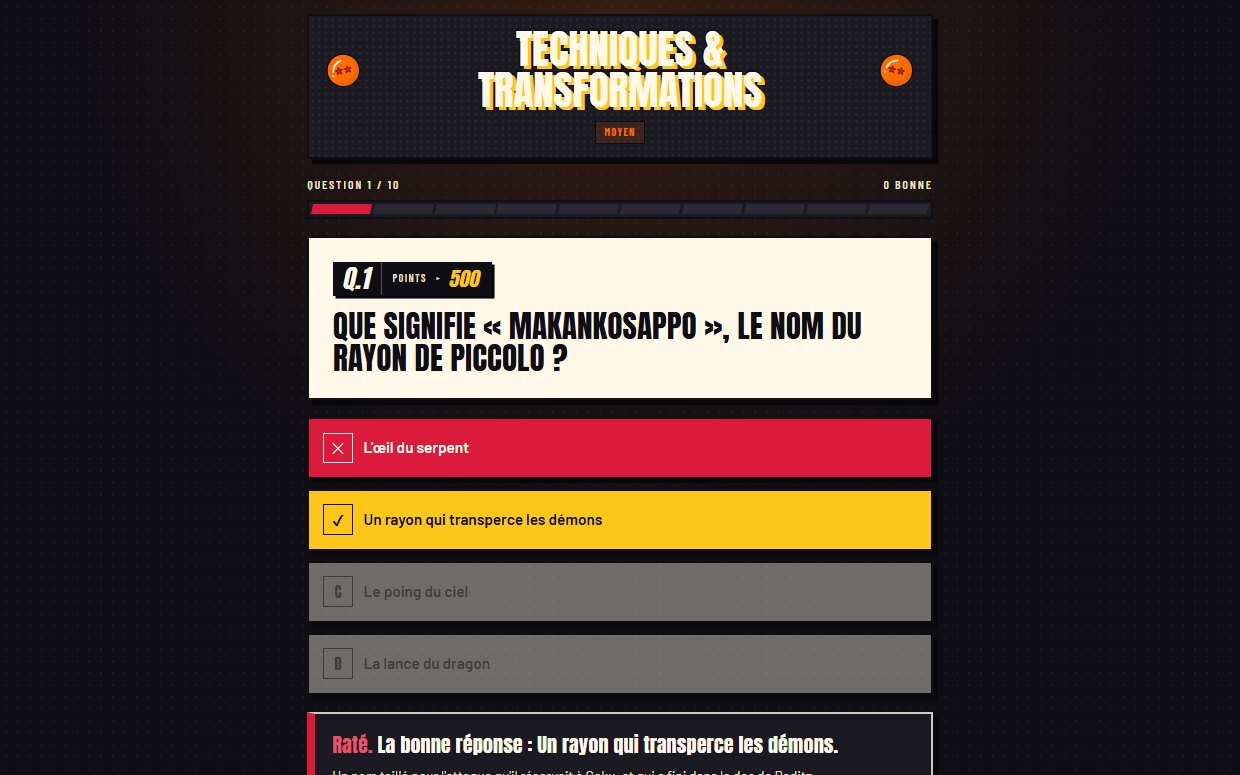
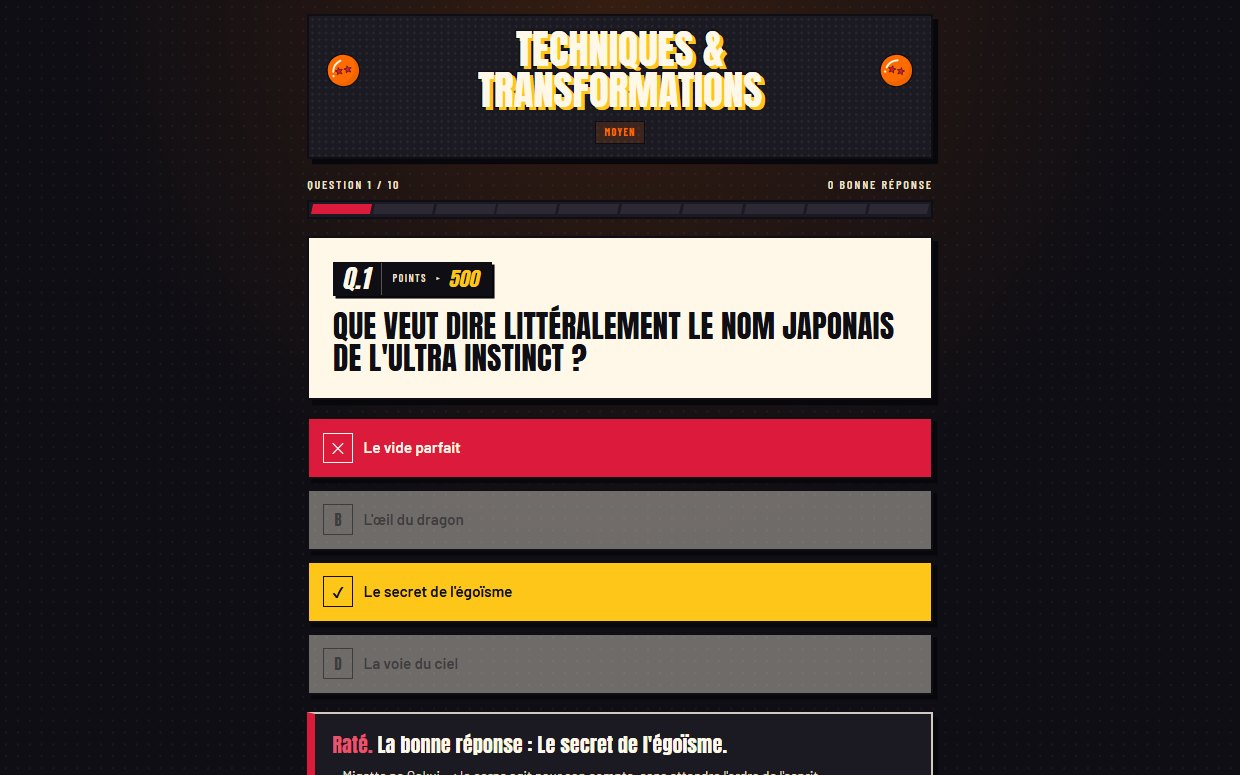
Met à jour les captures de l'étude de cas Dragon Ball Quiz après la relecture des textes
Nouvelle accroche sur l'accueil, compteur « 0 bonne réponse » sur la
question, tuile « Puissance de combat » sur le résultat ; aperçu de
partage en version 4, LinkedIn gardant l'ancien par URL.

diff --git a/dragonballquiz.html b/dragonballquiz.html
@@ -15,8 +15,9 @@
   <!-- Numéro de version dans le nom, comme apercu-cineyast-3.jpg : LinkedIn
        garde l'image traitée par URL exacte. Incrémenter si l'aperçu est refait.
        -2 (14/09/2026) : la boule de cristal remplace l'orbe sur l'accueil.
-       -3 (14/09/2026) : « Choisis ta catégorie » remplace « Choisis ton terrain ». -->
-  <meta property="og:image" content="https://boukamir.be/assets/apercu-dragonballquiz-3.jpg">
+       -3 (14/09/2026) : « Choisis ta catégorie » remplace « Choisis ton terrain ».
+       -4 (14/09/2026) : nouvelle accroche après la relecture des textes. -->
+  <meta property="og:image" content="https://boukamir.be/assets/apercu-dragonballquiz-4.jpg">
   <meta property="og:image:width" content="1200">
   <meta property="og:image:height" content="630">
   <meta property="og:image:alt" content="Page d'accueil de Dragon Ball Quiz : grand titre en lettrage manga, une boule de cristal dessinée, et les cinq catégories du quiz">
